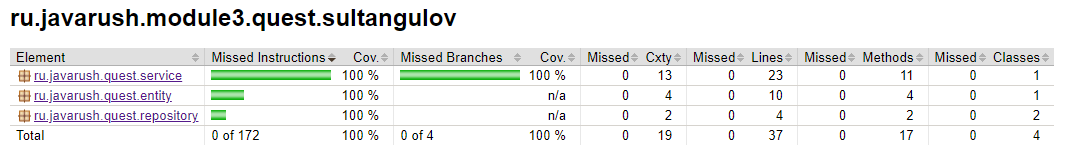
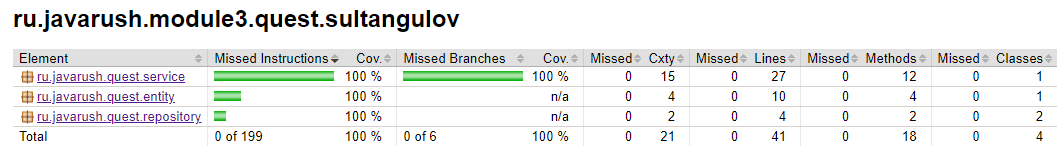
Refactor. The End.

diff --git a/src/test/java/ru/javarush/quest/service/QuestServiceTest.java b/src/test/java/ru/javarush/quest/service/QuestServiceTest.java
@@ -14,19 +14,18 @@ import java.util.List;
 import static org.junit.jupiter.api.Assertions.*;
 
 class QuestServiceTest {
-
     QuestService questService = new QuestService();
-    private static final String QUEST_NAME = "space";
+    private String questName;
 
     public QuestServiceTest() throws IOException {
-        questService.addQuest(QUEST_NAME, "quest.json");
+        questName = questService.addQuestAndReturnName("quest.json");
     }
 
     @ParameterizedTest
     @ValueSource(ints = {0, 1, 2})
     void checkGetQuestionTextById(int id) {
         String expectedText = "";
-        String text = questService.getQuestionTextById(QUEST_NAME, id);
+        String text = questService.getQuestionTextById(questName, id);
         switch (id) {
             case 0: expectedText = "Ты потерял память. Принять вызов НЛО?"; break;
             case 1: expectedText = "Ты принял вызов. Поднимаешься на мостик к капитану?"; break;
@@ -37,22 +36,22 @@ class QuestServiceTest {
 
     @Test
     void checkNegativeIsLastQuestionById() {
-        assertFalse(questService.isLastQuestionById(QUEST_NAME, 1));
+        assertFalse(questService.isLastQuestionById(questName, 1));
     }
 
     @Test
     void checkPositiveIsLastQuestionById() {
-        assertTrue(questService.isLastQuestionById(QUEST_NAME, 2));
+        assertTrue(questService.isLastQuestionById(questName, 2));
     }
 
     @Test
     void checkExceptionQuestionTextById() {
-        assertThrows(QuestionNotFoundException.class, ()->{questService.getQuestionTextById(QUEST_NAME, 10);});
+        assertThrows(QuestionNotFoundException.class, ()->{questService.getQuestionTextById(questName, 10);});
     }
 
     @Test
     void checkExceptionLastQuestionById() {
-        assertThrows(QuestionNotFoundException.class, ()->{questService.isLastQuestionById(QUEST_NAME, 10);});
+        assertThrows(QuestionNotFoundException.class, ()->{questService.isLastQuestionById(questName, 10);});
     }
 
     @Test
@@ -60,8 +59,8 @@ class QuestServiceTest {
         List<Answer> answers = new ArrayList<>();
         answers.add(new Answer(1, "Подняться на мостик", 2));
         answers.add(new Answer(2, "Отказаться подниматься на мостик", -2));
-        assertEquals(answers.get(0).getText(), questService.getAnswersByQuestionId(QUEST_NAME,1).get(0).getText());
-        assertEquals(answers.get(1).getText(), questService.getAnswersByQuestionId(QUEST_NAME,1).get(1).getText());
+        assertEquals(answers.get(0).getText(), questService.getAnswersByQuestionId(questName,1).get(0).getText());
+        assertEquals(answers.get(1).getText(), questService.getAnswersByQuestionId(questName,1).get(1).getText());
     }
 
     @Test

diff --git a/src/main/java/ru/javarush/quest/servlet/QuestServlet.java b/src/main/java/ru/javarush/quest/servlet/QuestServlet.java
@@ -20,13 +20,13 @@ import java.util.List;
 @Getter
 public class QuestServlet extends HttpServlet {
     private QuestService questService;
-    private static final String QUEST_NAME = "space";
+    private String questName;
 
     @Override
     public void init() {
         try {
             questService = new QuestService();
-            questService.addQuest(QUEST_NAME, "quest.json");
+            questName = questService.addQuestAndReturnName("quest.json");
             log.info("Creating questRepository and userRepository");
         } catch (IOException e) {
             log.error(e.getMessage());
@@ -36,7 +36,6 @@ public class QuestServlet extends HttpServlet {
 
     @Override
     protected void doPost(HttpServletRequest request, HttpServletResponse response) {
-
         String userName = request.getParameter("userName");
         User user;
 
@@ -53,14 +52,14 @@ public class QuestServlet extends HttpServlet {
             int nextQuestionId = Integer.parseInt(request.getParameter("nextQuestionId"));
             boolean isLastQuestion = Boolean.parseBoolean(request.getParameter("isLastQuestion"));
             boolean isWrongAnswer = checkNegativeNumber(nextQuestionId);
-            String question = questService.getQuestionTextById(QUEST_NAME, nextQuestionId);
+            String question = questService.getQuestionTextById(questName, nextQuestionId);
 
             log.info(user.toString() + ", nextQuestionId = " + nextQuestionId + ", isLastQuestion = " + isLastQuestion +
                     ", isWrongAnswer = " + isWrongAnswer + ", question = " + question);
 
             if (!isLastQuestion && !isWrongAnswer){
-                List<Answer> answersByQuestion = questService.getAnswersByQuestionId(QUEST_NAME, nextQuestionId);
-                isLastQuestion = questService.isLastQuestionById(QUEST_NAME, nextQuestionId);
+                List<Answer> answersByQuestion = questService.getAnswersByQuestionId(questName, nextQuestionId);
+                isLastQuestion = questService.isLastQuestionById(questName, nextQuestionId);
                 request.setAttribute("question", question);
                 request.setAttribute("answers", answersByQuestion);
                 request.setAttribute("nextQuestionId", nextQuestionId);

diff --git a/src/main/java/ru/javarush/quest/service/QuestService.java b/src/main/java/ru/javarush/quest/service/QuestService.java
@@ -18,7 +18,6 @@ import java.util.Optional;
 
 @Slf4j
 public class QuestService {
-
     private final QuestRepository questRepository;
     private final UserRepository userRepository;
 
@@ -27,8 +26,11 @@ public class QuestService {
         this.userRepository = new UserRepository();
     }
 
-    public void addQuest(String questName, String fileName) throws IOException {
+    public String addQuestAndReturnName(String fileName) throws IOException {
+        Quest quest = getQuestFromFile(fileName);
+        String questName = quest.getQuestName();
         questRepository.getQuests().put(questName, getQuestFromFile(fileName));
+        return questName;
     }
 
     public String getQuestionTextById(String questName, int id) {

diff --git a/src/main/java/ru/javarush/quest/entity/Quest.java b/src/main/java/ru/javarush/quest/entity/Quest.java
@@ -8,5 +8,6 @@ import java.util.List;
 @Getter
 @NoArgsConstructor
 public class Quest {
+    private String questName;
     private List<Question> questions;
 }

diff --git a/README.md b/README.md
@@ -2,11 +2,11 @@
 Написать небольшой текстовый квест. Вопрос на каждом следующем шаге зависит от предыдущего ответа.
 
 # Требования
-- Maven проект с использованием таких технологий: сервлеты, jsp, jstl.
+- Maven проект с использованием таких технологий: сервлеты, JSP, JSTL.
 - Для запуска при тестировании будет использоваться Tomcat 9.
 - После победы или поражения должна быть возможность начать игру заново.
 - Какая-то информация должна храниться в сессии. Это может быть имя игрока, количество сыгранных игр или еще что-то на твое усмотрение.
-- Логика должна быть покрыта тестами. Используй JUnit.
+- Логика должна быть покрыта тестами. Используй JUnit. Покрытие > 95%.
 - Добавить страницу-приветствие, в которой написать текст приветствие, рассказывающий предысторию к этому текстовому квесту-игре.
 
 # Интерфейс
